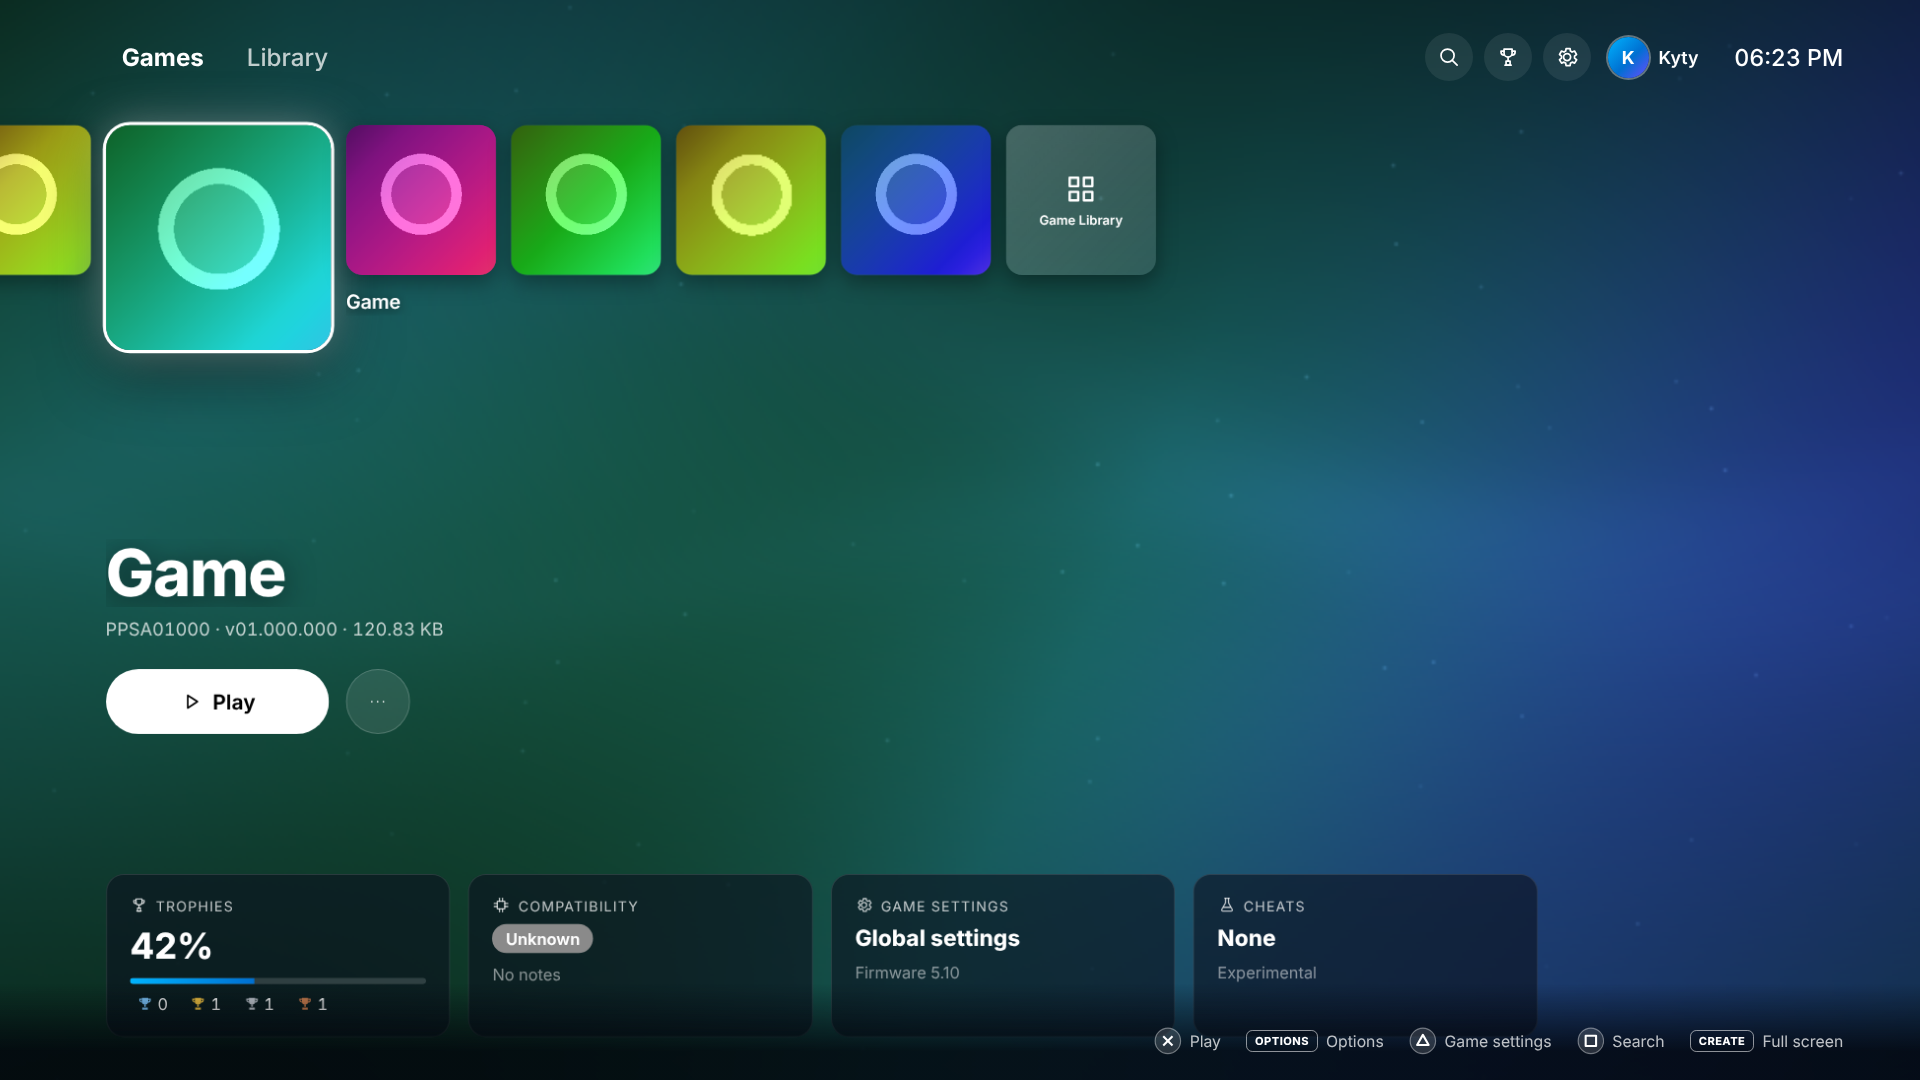
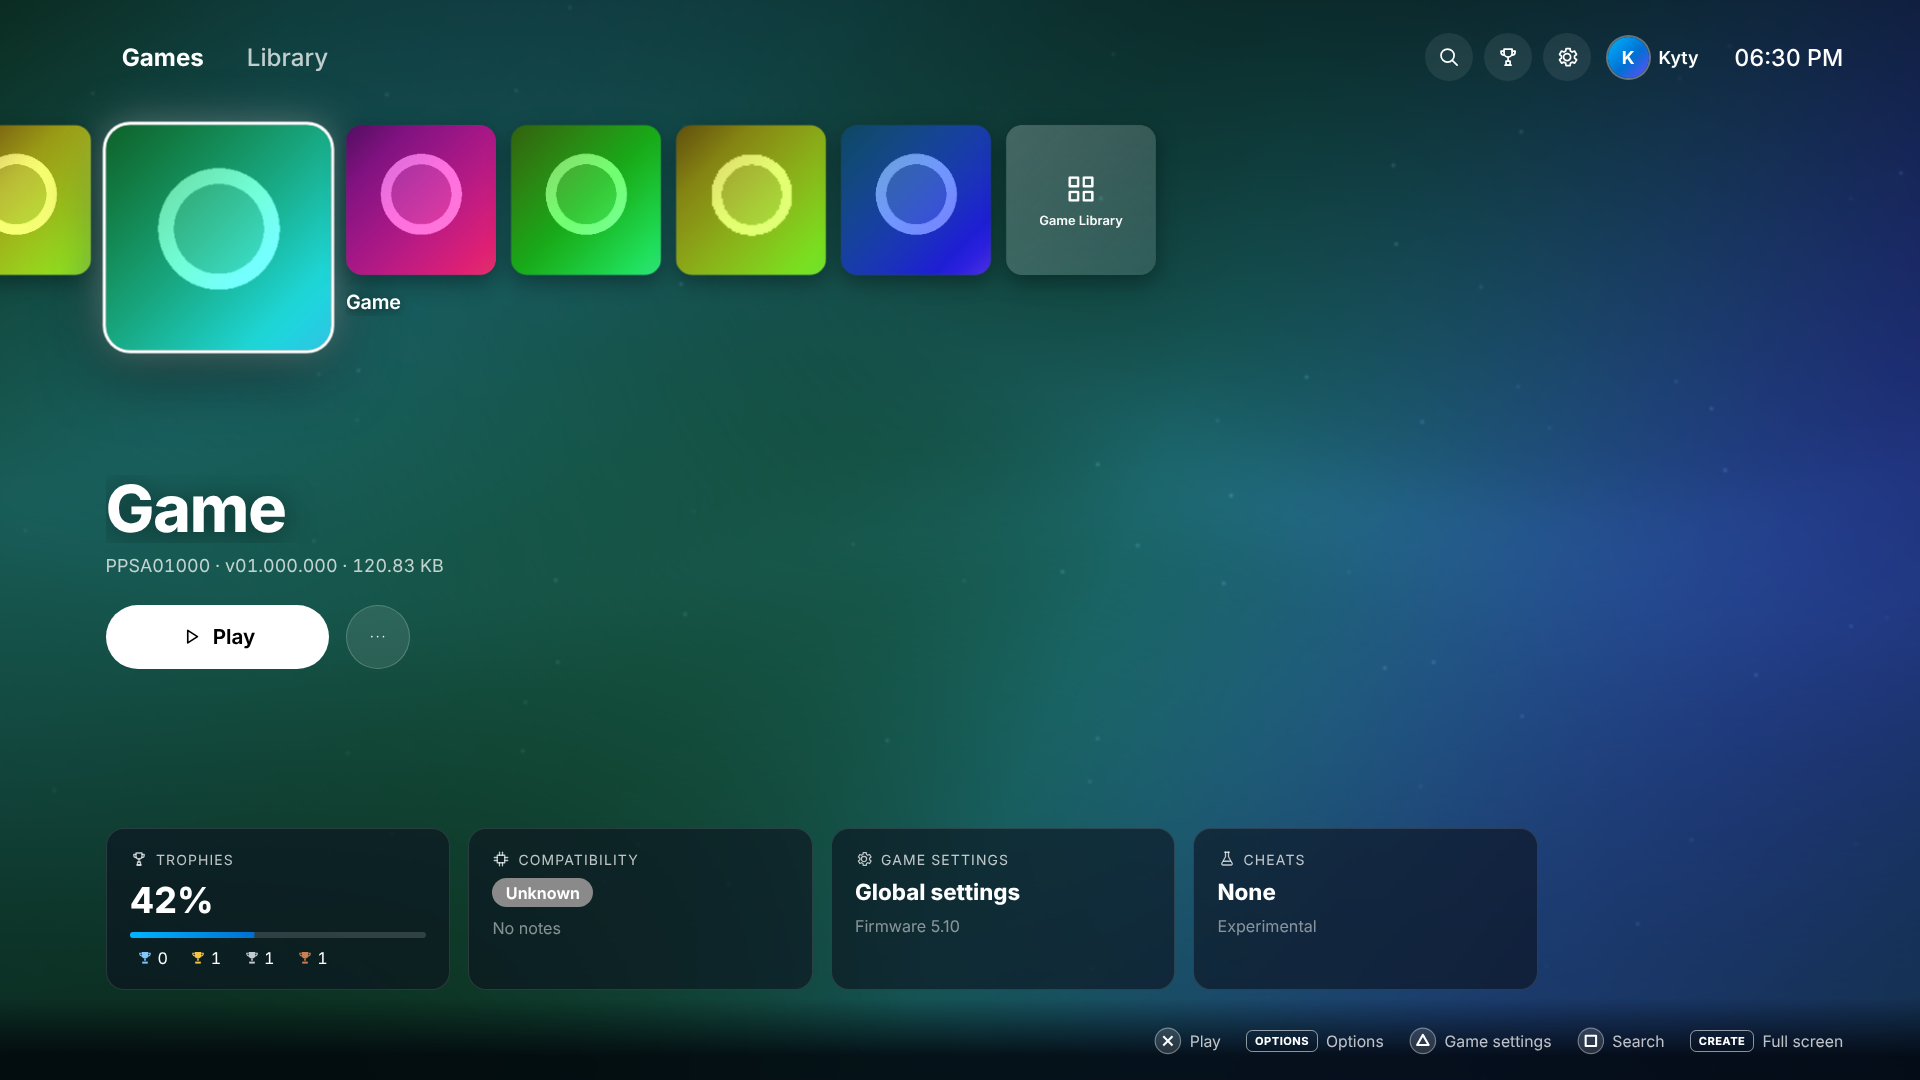
Home: keep the cards above the button hints
The cards were placed at 71% of the window height, so the button hints covered their bottom
edge, and on short windows the cards ran off the screen. They now sit just above the hints, and
the game title block moves up a little to leave room. Focusing a card no longer slides the
screen up: that was there to bring the cards into view, and they are always in view now.

Claude-Session: https://claude.ai/code/session_01EMPZj2jTWsFSubxmKax9TL

diff --git a/src/renderer/src/screens/Home.tsx b/src/renderer/src/screens/Home.tsx
@@ -46,7 +46,6 @@ export function Home() {
 	const push = useStore((state) => state.push);
 	const viewport = useViewport();
 	const rowRef = useRef<HTMLDivElement>(null);
-	const [scrolled, setScrolled] = useState(false);
 
 	const count = games.length + 1; // The last tile opens the game library.
 	const selectedIndex = Math.max(0, games.findIndex((game) => game.id === selectedId));
@@ -178,7 +177,7 @@ export function Home() {
 	};
 
 	return (
-		<div className={`screen home ${scrolled ? 'home-scrolled' : ''}`} data-nav-scope="1">
+		<div className="screen home" data-nav-scope="1">
 			<TopBar active="games" />
 			<div className="home-content">
 				<section
@@ -186,7 +185,6 @@ export function Home() {
 					ref={rowRef}
 					style={{ height: layout.big + 12 }}
 					data-nav-group
-					onFocus={() => setScrolled(false)}
 				>
 					{tiles.map((i) => {
 						const item = games[i];
@@ -308,7 +306,7 @@ export function Home() {
 				</section>
 
 				{game !== undefined && (
-					<section className="cards" data-nav-group onFocus={() => setScrolled(true)}>
+					<section className="cards" data-nav-group>
 						<button className="card" data-nav onClick={() => game.trophies !== undefined && push({ name: 'trophies', gameId: game.id })} {...hoverFocus}>
 							<span className="card-label">
 								<Icon name="trophy" size={18} /> Trophies

diff --git a/src/renderer/src/styles/app.css b/src/renderer/src/styles/app.css
@@ -266,12 +266,6 @@ button:focus,
 .home-content {
 	position: absolute;
 	inset: 6rem 0 0 0;
-	transition: transform 0.5s var(--ease);
-	will-change: transform;
-}
-
-.home-scrolled .home-content {
-	transform: translateY(-36vh);
 }
 
 .tile-row {
@@ -361,7 +355,7 @@ button:focus,
 .hero {
 	position: absolute;
 	left: var(--edge);
-	top: 40vh;
+	top: 34vh;
 	right: 34vw;
 }
 
@@ -400,7 +394,8 @@ button:focus,
 	position: absolute;
 	left: var(--edge);
 	right: 4vw;
-	top: 71vh;
+	/* Just above the button hints (.hints: 1.6rem + 1.55rem glyphs + 1.4rem). */
+	bottom: 5rem;
 	display: grid;
 	grid-template-columns: repeat(auto-fit, minmax(14rem, 1fr));
 	gap: 1rem;
@@ -598,7 +593,7 @@ button:focus,
 	left: 0;
 	right: 0;
 	bottom: 0;
-	padding: 2.4rem 4vw 1.4rem;
+	padding: 1.6rem 4vw 1.4rem;
 	justify-content: flex-end;
 	background: linear-gradient(180deg, transparent, rgba(2, 5, 12, 0.82) 70%);
 	display: flex;
